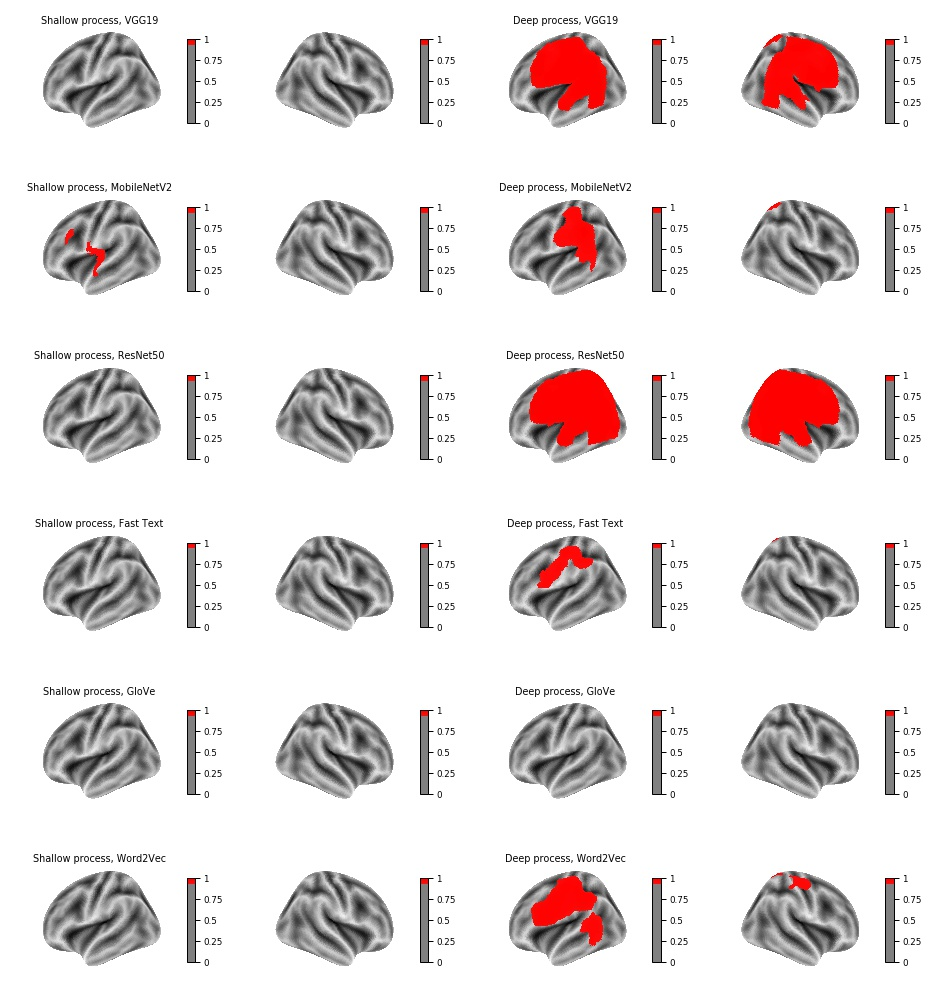
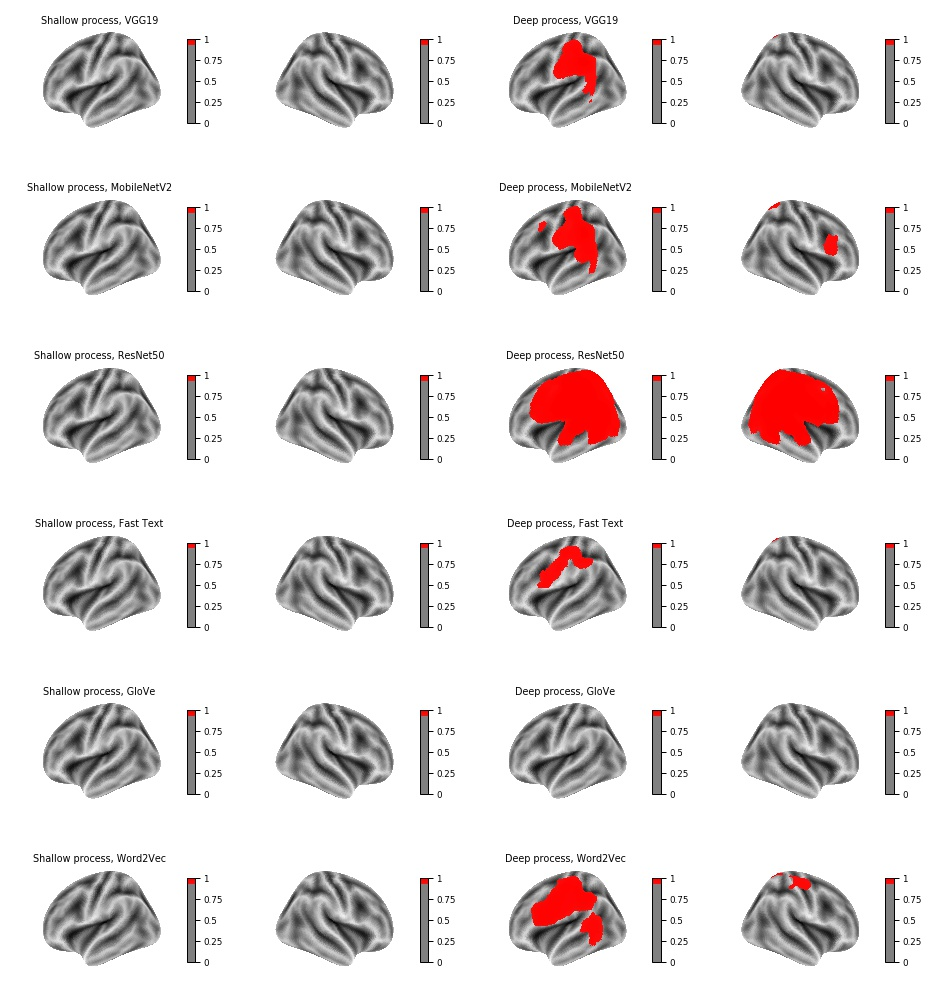
RSA 10mm, effect of read is gone

diff --git a/scripts/2.2.randomise on the RSA maps modify and save.py b/scripts/2.2.randomise on the RSA maps modify and save.py
@@ -52,47 +52,47 @@ for ii in range(12):
             for line in old_file:
                 if "../" in line:
                     line = line.replace("../","../../")
-                elif 'idx = ' in line:
-                    line = line.replace('0',f'{ii}')
+                elif 'change idx' in line:
+                    line = f'idx = {ii}\n'
                 new_file.write(line)
             old_file.close()
         new_file.close()
-    new_batch_script_name = os.path.join(scripts_folder,f'RSA{ii+1}')
-#    content = f"""#!/bin/bash
-##$ -q long.q
-##$ -N Ran{ii}
-##$ -o outputs/out_{ii}.txt
-##$ -e outputs/err_{ii}.txt
-##$ -cwd
-##$ -m be
-##$ -M nmei@bcbl.eu
-##$ -S /bin/bash
-#
-#pwd
-#echo "randomise map {ii}"
-#module load python/python3.6 fsl/6.0.0
-#
-#python "{new_scripts_name.split('/')[-1]}"
-#"""
+    new_batch_script_name = os.path.join(scripts_folder,f'RSA{ii}')
     content = f"""#!/bin/bash
-#PBS -q bcbl
-#PBS -l nodes={node}:ppn={core}
-#PBS -l mem={mem}gb
-#PBS -l cput={cput}:00:00
-#PBS -N RSA{ii+1}
-#PBS -o outputs/out_{ii+1}.txt
-#PBS -e outputs/err_{ii+1}.txt
-cd $PBS_O_WORKDIR
-export PATH="/scratch/ningmei/anaconda3/bin:/scratch/ningmei/anaconda3/condabin:$PATH"
-source activate keras-2.1.6_tensorflow-2.0.0
+#$ -q long.q
+#$ -N Ran{ii}
+#$ -o outputs/out_{ii}.txt
+#$ -e outputs/err_{ii}.txt
+#$ -cwd
+#$ -m be
+#$ -M nmei@bcbl.eu
+#$ -S /bin/bash
+
 pwd
-echo {new_scripts_name.split('/')[-1]}
+echo "randomise map {ii}"
+module load python/python3.6 fsl/6.0.0
+
 python "{new_scripts_name.split('/')[-1]}"
-    """
+"""
+#    content = f"""#!/bin/bash
+##PBS -q bcbl
+##PBS -l nodes={node}:ppn={core}
+##PBS -l mem={mem}gb
+##PBS -l cput={cput}:00:00
+##PBS -N RSA{ii+1}
+##PBS -o outputs/out_{ii}.txt
+##PBS -e outputs/err_{ii}.txt
+#cd $PBS_O_WORKDIR
+#export PATH="/scratch/ningmei/anaconda3/bin:/scratch/ningmei/anaconda3/condabin:$PATH"
+#source activate keras-2.1.6_tensorflow-2.0.0
+#pwd
+#echo {new_scripts_name.split('/')[-1]}
+#python "{new_scripts_name.split('/')[-1]}"
+#    """
     with open(new_batch_script_name,'w') as f:
         f.write(content)
         f.close()
-    collections.append(f"qsub RSA{ii+1}")
+    collections.append(f"qsub RSA{ii}")
 
 with open(f'{scripts_folder}/qsub_jobs.py','w') as f:
     f.write("""import os\nimport time""")

diff --git a/scripts/2.1.randomise on the RSA maps.py b/scripts/2.1.randomise on the RSA maps.py
@@ -86,7 +86,7 @@ temp_dir = 'temp'
 if not os.path.exists(temp_dir):
     os.mkdir(temp_dir)
 
-idx = 0
+idx = 0 # change idx
 row = df.iloc[idx,:]
 maps_for_randomise = row['randomise_brain_map']
 condition,model_name = row['title'].split(', ')
@@ -97,13 +97,14 @@ input_file = os.path.join(temp_dir,
 mask_file = standard_brain_mask
 base_name = os.path.join(randomise_dir,
           f'{condition.replace(" ","_")}_{model_name.replace(" ","_")}')
-nipype_fsl_randomise(input_file,
-                     mask_file,
-                     base_name,
-                     tfce                   = True,
-                     var_smooth             = 6,
-                     demean                 = False,
-                     one_sample_group_mean  = True,
-                     n_permutation          = int(1e4),
-                     quiet                  = True,
-                     run_algorithm          = True,)
+if not os.path.exists(base_name + '_tfce_corrp_tstat1.nii.gz'):
+    nipype_fsl_randomise(input_file,
+                         mask_file,
+                         base_name,
+                         tfce                   = True,
+                         var_smooth             = 6,
+                         demean                 = False,
+                         one_sample_group_mean  = True,
+                         n_permutation          = int(1e4),
+                         quiet                  = True,
+                         run_algorithm          = True,)

diff --git a/scripts/3.plot_group_average_in_standard_space.py b/scripts/3.plot_group_average_in_standard_space.py
@@ -30,7 +30,7 @@ from matplotlib import pyplot as plt
 
 sns.set_context('paper')
 
-radius              = 6
+radius              = 10
 folder_name         = f'RSA_basedline_average_{radius}mm_standard'
 working_dir         = f'../results/{folder_name}'
 standard_brain_mask = '../data/standard_brain/MNI152_T1_2mm_brain_mask_dil.nii.gz'
